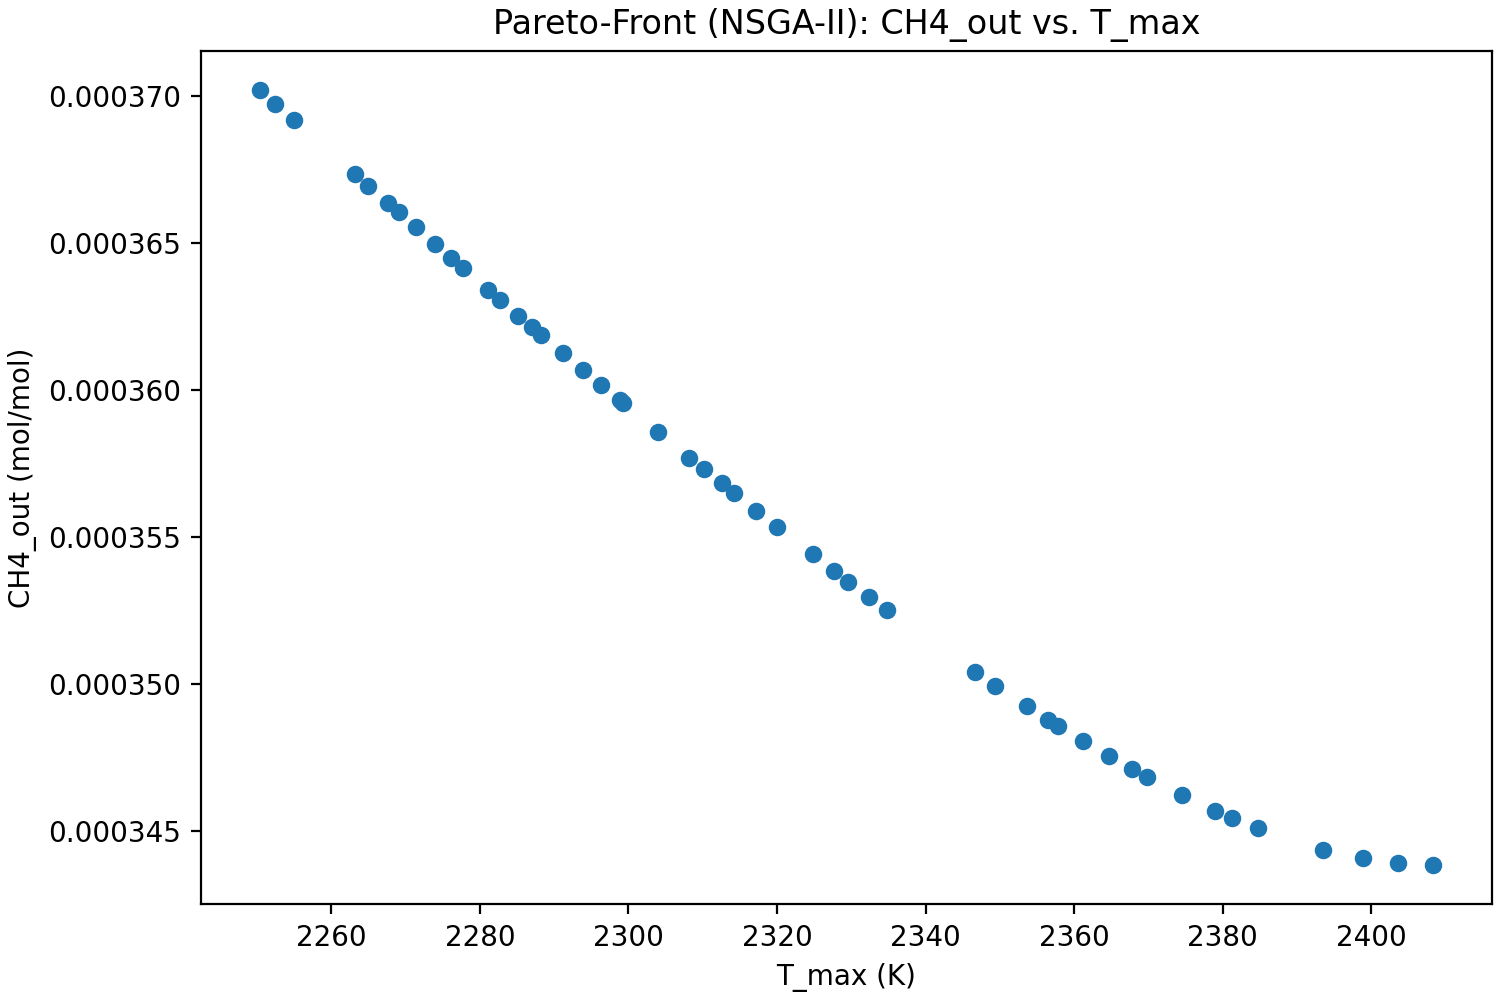
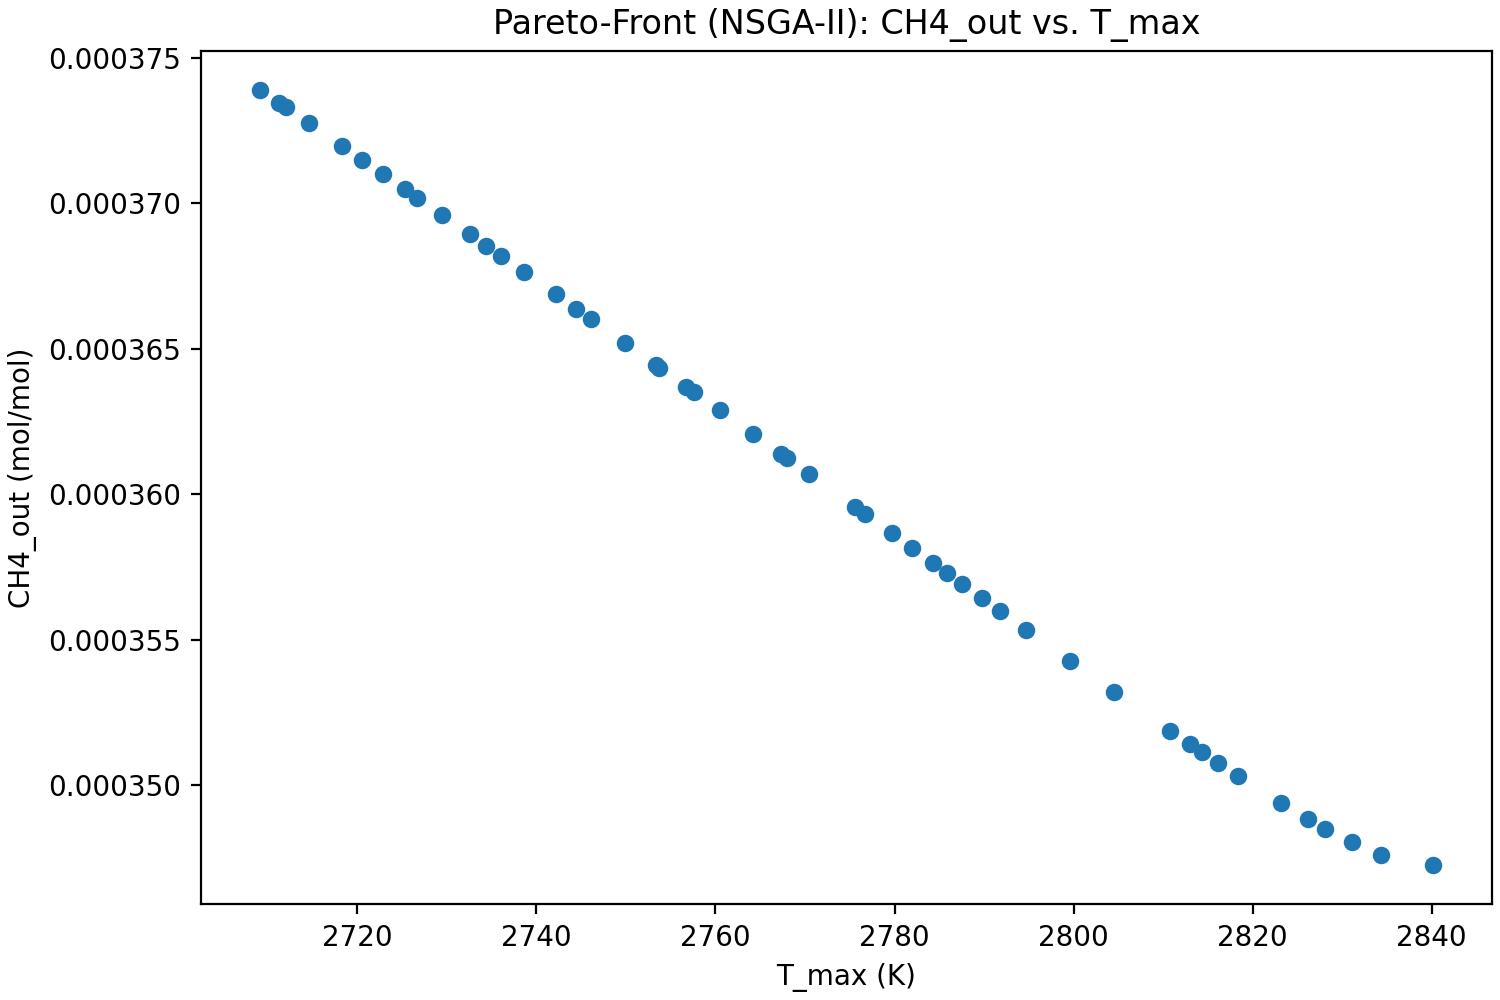
Fix Ordnerstruktur

diff --git a/Belegaufgabe/Simulation/optimize_kaskade_multikriteriell.py b/Belegaufgabe/Simulation/optimize_kaskade_multikriteriell.py
@@ -83,7 +83,7 @@ def main():
     length = 0.3 * cm
     mass_flow_rate = 1e-6
     yaml_file = "methane_pox_on_pt.yaml"
-    n_cstr = 25  # test; später hoch
+    n_cstr = 200  # test; später hoch
 
     model = CSTRCascadeModel(
         yaml_file=yaml_file,
@@ -119,7 +119,7 @@ def main():
         mutation=PM(eta=10),
         eliminate_duplicates=True,
     )
-    termination = get_termination("n_gen", 20)
+    termination = get_termination("n_gen", 30)
 
     res = minimize(problem, algo, termination, seed=1, verbose=True)
 

diff --git a/Belegaufgabe/Simulation/optimize_kaskade_einkriteriell.py b/Belegaufgabe/Simulation/optimize_kaskade_einkriteriell.py
@@ -62,7 +62,7 @@ def main():
         updating="deferred",
     )
 
-    with open("../Auwertung/optimization_history_einkriteriell.csv", "w", newline="") as f:
+    with open("../Auswertung_einkriteriell/optimization_history_einkriteriell.csv", "w", newline="") as f:
         writer = csv.writer(f)
         writer.writerow([
             "iteration",
